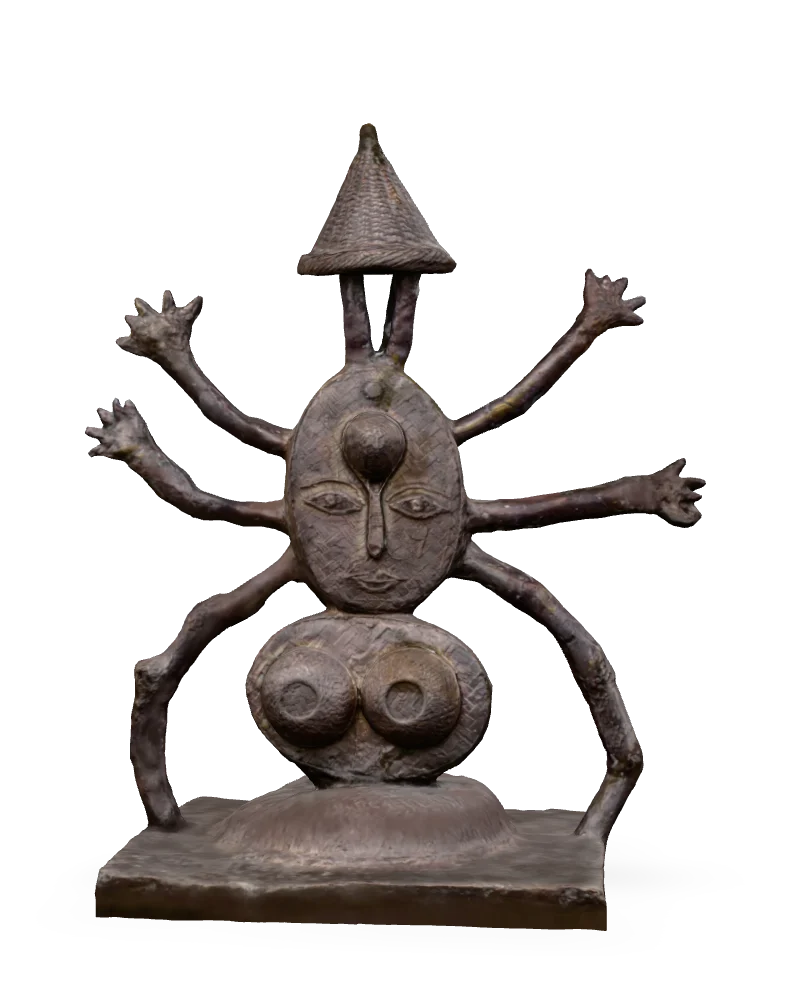
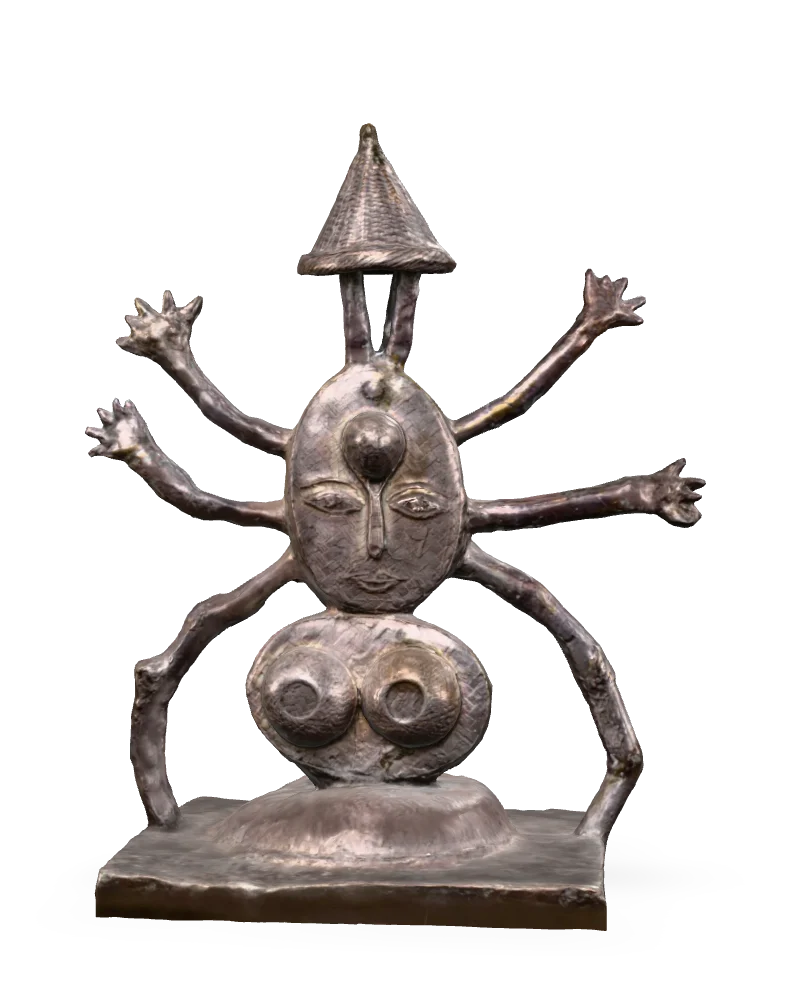
Looks from the look lab for 13 more works, with new thumbnails
Meri Patang, Head in Fragments, Levitation, Matar, The Tailor, Ganesha,
Patinder Rawat Trumpet Walae, Patinder Ji Haran Walla, Bronze 2 - 1,
Bandwalla, KC The Bandmaster, Shyam Pratap Bhompu Walae and Horse. Also
re-renders the Yellow, Dark Green and Blue Saree thumbnails with their
looks from earlier. Each ?v= bumped.

Changed region(s): [[0.125, 0.124, 0.875, 0.899], [0.625, 0.279, 0.8125, 0.403], [0.0938, 0.403, 0.25, 0.496]]

diff --git a/lib/sculptures.ts b/lib/sculptures.ts
@@ -287,9 +287,9 @@ export const sculptures: Sculpture[] = [
     longDescription:
       "A blue elephant rears up on one hind leg, its trunk raised high in a long curve and its pale tusks pointing upward. The body shades from light blue at the head and ears to a deep blue on the belly and legs, with small white toenails marked on the feet.\n\nOne front foot is lifted and balances a green ball, while the hind foot it stands on rests on another green ball, set on top of a long green pod that forms the base. More green spheres cluster on top of the elephant's head, between the ears. The tail is unusually long and thin: it sweeps out behind the body, curves upward and ends in a small diamond-shaped kite, orange with diagonal stripes, with a short tail of its own. The kite is the only warm colour in the work, set against the blues and greens of the rest.\n\nMade in 2026 in acrylic on nylon, the sculpture measures 12 × 9 × 5 inches, about 30 cm tall. Its title, Meri Patang, means \"My Kite\", naming the small orange shape at the end of the tail.",
     artistSlug: "yashika-sugandh",
-    thumbnail: "/thumbnails/sugandh-meri-patang.webp?v=6",
+    thumbnail: "/thumbnails/sugandh-meri-patang.webp?v=7",
     modelUrl: "/sculptures/ElephantKite_LOWPOLY.glb?v=2",
-    look: { metalness: 0.18, roughness: 1.8, reflections: 0.6 },
+    look: { metalness: 0.18, roughness: 1.25, reflections: 0.6 },
     facing: 270,
     material: "Acrylic on Nylon",
     year: "2026",
@@ -350,9 +350,9 @@ export const sculptures: Sculpture[] = [
     longDescription:
       "A man's face, lined and heavy-lidded, is partly covered by a large hand that rises from below. The hand's index finger presses up against the side of the face next to one eye, and the other fingers spread across the mouth and cheek. Below the wrist, the arm becomes a thick yellow trunk that stands on a flat, square yellow base.\n\nThe top of the head is formed as a separate, rounded piece, set at an angle above the face and turning grey-violet at its outer edge. An ear is visible on the viewer's left. Across the skin, hand and trunk are painted leaves in green and blue-grey on thin stems. Raised orange and tan leaf shapes are attached at several points: on the crown, the hand, the back of the wrist and around the foot of the trunk, where they curl outward on the base.\n\nThe work is made in fibreglass, resin, paper mache, and oil and acrylic paint, and measures 17 × 11 × 16 inches, about 43 cm high. The skin is a warm peach colour. It is listed in its source as Untitled.",
     artistSlug: "subba-ghosh",
-    thumbnail: "/thumbnails/ghosh-head-in-fragments.webp?v=4",
+    thumbnail: "/thumbnails/ghosh-head-in-fragments.webp?v=5",
     modelUrl: "/sculptures/head-e.glb",
-    look: { roughness: 2, reflections: 0.6 },
+    look: { metalness: 0.1, roughness: 1.6, reflections: 0.45, light: 1.7 },
     material: "Fibreglass, Resin, Paper Mache, Oil and Acrylic Paint",
     year: "",
     dimensions: "17 × 11 × 16 inches",
@@ -369,7 +369,7 @@ export const sculptures: Sculpture[] = [
     longDescription:
       "A woman's head and neck are set on a short white collar, the face turned slightly to one side. Her hair is dark brown, drawn smoothly back from the face, with a small ring-shaped ornament on each side near the top. A broad yellow band crosses the forehead, and at its centre sits a large round orange bindi.\n\nThe face is a warm golden bronze. The eyes are long and almond-shaped beneath heavy lids, and the nose is straight and narrow, joined to the brow in a single line. Below the full lips, a yellow triangle runs down to the chin, echoing the yellow of the forehead. The ears are long and flat, standing out from the sides of the head. A thick ring circles the neck.\n\nThe collar at the base is pale white with a faint pink tint and is dotted with small holes. This bronze, made in 2026, measures 24 × 16 × 24 inches, about 61 cm high, and its title places it in a Saree Lady series. The large vermilion bindi and almond eyes recur in Thota Vaikuntam's painted women.",
     artistSlug: "thota-vaikuntam",
-    thumbnail: "/thumbnails/thota-dark-green-saree-lady.webp?v=6",
+    thumbnail: "/thumbnails/thota-dark-green-saree-lady.webp?v=7",
     modelUrl: "/sculptures/head-g.glb?v=2",
     look: { metalness: 0.3, roughness: 1.75, reflections: 0.6, light: 1.05, sideLights: 0.3 },
     facing: 180,
@@ -387,7 +387,7 @@ export const sculptures: Sculpture[] = [
     longDescription:
       "A woman stands facing forward with her feet together on a low oval base. She wears a blue saree and a short-sleeved blue blouse. The end of the saree is drawn up over her left shoulder and falls diagonally across the body, and the lower part gathers in front into a long fold between the legs, ending just below the knees.\n\nHer right arm hangs at her side, holding a small rounded pouch or pot by its neck. Her left hand rests at the waist. Both forearms are covered in close rings of bangles, and thick anklets circle the ankles above the bare feet. A small red bindi sits at the centre of her forehead. The head is large and round, the hair drawn smoothly back, and a fine line runs from the nose over the lips to the chin.\n\nThe skin and base are a dark grey-brown metal, while the clothing is a strong blue-violet, so the shape of the garment reads clearly against the body. The bronze measures 23 × 9 × 7 inches, about 58 cm tall. Her saree and red bindi follow the women in bright saris with vermilion bindis that Thota Vaikuntam paints.",
     artistSlug: "thota-vaikuntam",
-    thumbnail: "/thumbnails/thota-blue-saree.webp?v=7",
+    thumbnail: "/thumbnails/thota-blue-saree.webp?v=8",
     modelUrl: "/sculptures/female-with-blue-saree.glb?v=4",
     look: { metalness: 0.5, roughness: 1.5, reflections: 1.8, light: 0.3, specular: 1 },
     material: "Bronze",
@@ -407,7 +407,7 @@ export const sculptures: Sculpture[] = [
     longDescription:
       "Tilted slightly upward and to one side, this woman's head rests on a yellow collar dotted with small holes. A plain ring encircles the neck just above the collar. The face is a smooth, warm golden bronze, rounded at the cheeks and chin.\n\nHer dark brown hair is drawn back tightly, with a small oval ornament on either side near the crown. Across the forehead runs a broad yellow band, and in its centre a large round orange bindi. The eyes are long and almond-shaped under heavy lids, the nose is straight and joined to the brow line, and the lips are full. A narrow yellow triangle extends from the lower lip to the chin, repeating the yellow of the forehead and collar. The ears are long and flat, set close to the sides of the head.\n\nThe surfaces are smooth, and the features are reduced to clear edges and flat planes. Made in 2026, the bronze measures 24 × 16 × 24 inches, about 61 cm high. The large vermilion bindi and almond eyes are features Thota Vaikuntam gives the women in his paintings.",
     artistSlug: "thota-vaikuntam",
-    thumbnail: "/thumbnails/thota-yellow-saree-lady.webp?v=6",
+    thumbnail: "/thumbnails/thota-yellow-saree-lady.webp?v=7",
     modelUrl: "/sculptures/female-head.glb?v=3",
     look: { metalness: 0.5, roughness: 1.2, reflections: 0.55, light: 0.8, sideLights: 0.4 },
     material: "Bronze",
@@ -424,9 +424,9 @@ export const sculptures: Sculpture[] = [
     longDescription:
       "A figure sits cross-legged, its arms falling straight from rounded shoulders so that the hands rest on the knees. The proportions are simplified: a thin neck rises to an oval head that is hollowed out like a shallow bowl, and in the middle of that hollow sits a single almond-shaped form with a dark centre. The outer surface is rough and uneven, a mottled bronze-gold colour throughout.\n\nThe front of the torso is opened up into a deep cavity that runs from the collarbone down into the lap. Its inner walls are lined in blue-green flecked with gold, a contrast with the warmer outer skin. Near the top of this opening, at the level of the chest, a smooth yellow-gold sphere is set into the hollow. The title, Levitation, means rising or floating in the air.\n\nThe work is made in papermache, marble and acrylic paint, and measures 24 × 22 × 14 inches. Seen from the front, the arms and the sides of the torso leave two open gaps through which the background shows. The edges of the opening in the torso are thin and slightly rolled, like the lip of a shell.",
     artistSlug: "meena-sansanwal",
-    thumbnail: "/thumbnails/sansanwal-levitation.webp?v=5",
+    thumbnail: "/thumbnails/sansanwal-levitation.webp?v=6",
     modelUrl: "/sculptures/meditating.glb?v=2",
-    look: { metalness: 0.5, roughness: 1.3 },
+    look: { metalness: 0.8, roughness: 1.6, reflections: 0.75, light: 1.9, sideLights: 0.8 },
     facing: 180,
     material: "Papermache, Marble And Acrylic Paint",
     year: "",
@@ -573,9 +573,9 @@ export const sculptures: Sculpture[] = [
     longDescription:
       "Matar is the Hindi word for peas, and the work is built around a single green pea pod standing upright on its tip. The pod is split open along its front, showing a column of round green peas inside, and at the top a curling stem and small leaves spread outwards.\n\nAmong the peas are small figures and objects. Near the top, a monkey-like figure in a yellow garment sits on a pea, holding strings from which a small gold winged object hangs out beside the pod. Lower down, one section is a band of blue with white rings, and below it is a red and white section with radiating lines. Further down, a small yellow creature appears among the lowest peas. The pod's tip rests on a large white egg-shaped form scattered with blue spots of different sizes, which in turn sits on a round brown base.\n\nThe work dates from 2024 and is made in acrylic on fibre resin and nylon, measuring 11 × 2 × 2 inches. The peas are a lighter, yellowish green than the pod, and the two halves of the pod narrow to a point at the bottom.",
     artistSlug: "yashika-sugandh",
-    thumbnail: "/thumbnails/sugandh-matar.webp?v=5",
+    thumbnail: "/thumbnails/sugandh-matar.webp?v=6",
     modelUrl: "/sculptures/sugandh-matar.glb",
-    look: { roughness: 2.62, reflections: 0.7 },
+    look: { roughness: 1.8, reflections: 0.55 },
     facing: 110,
     material: "Acrylic on Fiber Resin and Nylon",
     year: "2024",
@@ -592,9 +592,9 @@ export const sculptures: Sculpture[] = [
     longDescription:
       "Listed in its source as Untitled, this bronze by Yusuf shows a bald head on a long, column-like neck and body that rises from a rectangular base. The face looks straight ahead, with large ears, a straight nose, and eyes and lips picked out in orange. The surface is white, and over it runs a dense covering of grey and black markings: lines, patches and shapes that spread across the face, the scalp and down the length of the body.\n\nTwo long, thin orange rods cross behind the figure and spread outwards in a wide V, reaching well beyond its sides. Smaller white forms are attached at either side of the body: on the left a rounded shape with a short projecting piece, and on the right a curved, ring-like form. The figure stands on a brown box-shaped base with a white top surface and an arched opening cut into the front.\n\nThe bronze measures 18 × 28 × 18 inches, and its width comes largely from the spread of the two orange rods. The white top of the base is slightly uneven and stops short of its edges, leaving a brown rim on all visible sides.",
     artistSlug: "yusuf",
-    thumbnail: "/thumbnails/yusuf-the-tailor.webp?v=7",
+    thumbnail: "/thumbnails/yusuf-the-tailor.webp?v=8",
     modelUrl: "/sculptures/yusuf-untitled-sewing-machine.glb",
-    look: { metalness: 2.86, roughness: 1.19, reflections: 0.6, cardZoom: 1.1, cardShift: 0.075, cardLift: 0.04 },
+    look: { metalness: 2.86, roughness: 0.75, reflections: 0.6, cardZoom: 1.1, cardShift: 0.08, cardLift: 0.04 },
     facing: 150,
     material: "Bronze",
     year: "",
@@ -646,9 +646,9 @@ export const sculptures: Sculpture[] = [
     longDescription:
       "At 183 cm high, this is a large, angular figure of Ganesha, the elephant-headed deity of the title, built from flat planes and bold curves. A long trunk rises from the centre of the body and curves up and over to the left, its tip turned outwards. Beside it stands a tall cylindrical form with a stepped top, and two flat ears project to either side like broad fans.\n\nBelow the head, the body narrows and widens again in sharp folds, ending in a broad base with legs folded at the front. Almost every surface is painted. Deep reds and crimsons dominate, crossed by orange and black lines, with olive-yellow along the edges of the trunk and the head. The ears and parts of the base carry rows of small dark marks resembling writing. A long curved band of thin orange lines hangs across the chest, and there are small touches of blue near the base.\n\nThe work is in acrylic on fiberglass and measures 72 × 38 × 38 inches. The stepped top of the cylinder is olive-yellow, and the inner curve of the trunk is the same colour, running down into the chest.",
     artistSlug: "sujata-bajaj",
-    thumbnail: "/thumbnails/bajaj-ganesha.webp?v=4",
+    thumbnail: "/thumbnails/bajaj-ganesha.webp?v=5",
     modelUrl: "/sculptures/bajaj-ganesha.glb",
-    look: { metalness: 0.2, roughness: 1.6, reflections: 0.6 },
+    look: { metalness: 0.65, roughness: 1.05, reflections: 1.35, light: 2.25, sideLights: 0.8 },
     material: "Acrylic on fiberglass",
     year: "",
     dimensions: "72 × 38 × 38 inches",
@@ -664,9 +664,9 @@ export const sculptures: Sculpture[] = [
     longDescription:
       "Balanced on one leg on an oval base, a bandsman crosses his other leg behind him, the knee bent and the toe of the boot touching down at the back. Both arms wrap around a large coiled brass instrument held against his chest. Its wide bell rises above his right shoulder, and a thin pipe runs up from the coils to his mouth.\n\nThe instrument is the brightest part of the work, a gold-brown that stands out against the greyish brown of the clothing. He wears a cap, a short jacket with a belt and buttons, close-fitting trousers and tall boots that reach almost to the knee. The surface of the clothing is rough and heavily worked, with pressed folds and uneven patches, while the coils of the instrument are smoother.\n\nThe title names Patinder Rawat, and \"Trumpet Walae\" reads as \"the one with the trumpet\". The bronze measures 12 × 5 × 5 inches and is cast 3 of an edition of 9. Khanna's figurative work includes the Bandwallahs series. The valves of the instrument show between his hands, and the lowest coil rests against his belt.",
     artistSlug: "krishen-khanna",
-    thumbnail: "/thumbnails/khanna-patinder-rawat-trumpet-walae.webp?v=5",
+    thumbnail: "/thumbnails/khanna-patinder-rawat-trumpet-walae.webp?v=6",
     modelUrl: "/sculptures/khanna-untitled-bandsman.glb",
-    look: { metalness: 0.97, roughness: 1.57, reflections: 0.9, light: 1.25, specular: 1 },
+    look: { roughness: 0.7, reflections: 0.9, light: 0.85, sideLights: 0.15, specular: 1 },
     facing: 310,
     material: "Bronze",
     year: "",
@@ -684,9 +684,9 @@ export const sculptures: Sculpture[] = [
     longDescription:
       "A standing figure in uniform tips his head back and raises a long, straight horn high above him, both hands gripping it near the mouthpiece. The horn is a bright gold, widening into a broad bell whose inner surface is dimpled. His face and hands are a dark grey-brown, set against the coppery orange of his clothing.\n\nHe wears a long coat with a high collar and a line of buttons down the front, its skirt flaring out over the legs. A pale khaki belt with a square buckle crosses the waist, and a strap of the same colour runs diagonally from one shoulder to the opposite hip. One leg is bent at the knee and lifted from the ground, so the whole figure balances on a single shod foot set on a small, pale, irregular base.\n\nThe bronze is dated 2025 and measures 56 × 32 × 18 inches, about 1.4 metres tall, and belongs to an edition of 9 plus an artist's proof. In the title, \"Walla\" means roughly \"the one with\". Uniformed bandsmen are the subject of Krishen Khanna's Bandwallahs series.",
     artistSlug: "krishen-khanna",
-    thumbnail: "/thumbnails/khanna-patinder-ji-haran-walla.webp?v=4",
+    thumbnail: "/thumbnails/khanna-patinder-ji-haran-walla.webp?v=5",
     modelUrl: "/sculptures/khanna-untitled-trumpeter.glb",
-    look: { metalness: 0.29, roughness: 2.12, reflections: 0.9, light: 1.25, specular: 1 },
+    look: { metalness: 0.4, roughness: 0.65, reflections: 0.7, light: 1.15, sideLights: 0.15, specular: 1 },
     facing: 270,
     material: "Bronze",
     year: "2025",
@@ -761,9 +761,9 @@ export const sculptures: Sculpture[] = [
     longDescription:
       "A flat, oval face forms the centre of this dark brown bronze. It has two almond-shaped eyes, a long narrow nose and a small curved mouth, with a round boss above the nose and a smaller knob at the top of the oval. Below the face is a wide rounded form carrying two large circular shapes, and the surfaces of both are covered with a fine criss-cross texture like weaving.\n\nSix thin, branch-like limbs spread out from the body. Four of them, two reaching upwards and two held out to the sides, end in hands with spread fingers. The lower two curve outwards and down, their ends resting on the corners of a flat rectangular base with a low mound at the centre. Above the face, two upright stems hold a pointed conical cap, with a small knob at its tip.\n\nBronze 2 - 1 is dated 2006 and measures 31 × 26 × 16 inches, about 79 centimetres tall; this is cast 2 of an edition of 7, by Madhvi Parekh. The limbs are knobbly and uneven, thicker at the joints, in contrast with the flat, textured face and body.",
     artistSlug: "madhvi-parekh",
-    thumbnail: "/thumbnails/parekh-bronze-2-1.webp?v=4",
+    thumbnail: "/thumbnails/parekh-bronze-2-1.webp?v=5",
     modelUrl: "/sculptures/parekh-bronze-2-1.glb",
-    look: { metalness: 0.3, roughness: 1.45, reflections: 0.6 },
+    look: { metalness: 0.95, roughness: 1.25, reflections: 0.8, light: 1.25, sideLights: 1 },
     facing: 180,
     material: "Bronze",
     year: "2006",
@@ -780,9 +780,9 @@ export const sculptures: Sculpture[] = [
     longDescription:
       "Dressed almost entirely in deep red, a bandsman stands with his feet apart and lifts a small horn to his lips. The instrument has a narrow curved tube and a flared bell in plain bronze, which he steadies with both hands just below his face. His face and hands are left in the dark brown of the bronze.\n\nHis uniform is a red peaked cap, a red jacket with a high collar and buttons down the front, red trousers and tall red boots that reach almost to the knee. A brown belt crosses his waist, and a brown strap runs diagonally across his chest from one shoulder.\n\nBandwalla is a bronze from an edition of 9. Its title joins \"band\" with \"walla\", roughly \"the one with\", so the name reads as \"the band man\", the subject of Krishen Khanna's Bandwallahs series. The face is broad, with heavy eyelids and a wide nose, framed by large ears below the cap. His elbows are held out from the body, one arm crossing in front of the chest, and the bell of the horn turns outwards to one side.",
     artistSlug: "krishen-khanna",
-    thumbnail: "/thumbnails/khanna-bandwalla.webp?v=4",
+    thumbnail: "/thumbnails/khanna-bandwalla.webp?v=5",
     modelUrl: "/sculptures/untitled-bandsman-in-red.glb",
-    look: { metalness: 0.19, roughness: 1.86, reflections: 0.9, light: 1.44, specular: 1, cardLight: 0.87, selfShadow: false },
+    look: { metalness: 0.19, roughness: 0.65, reflections: 1.1, light: 1.95, sideLights: 0.55, specular: 1, cardLight: 0.87, selfShadow: false },
     facing: 200,
     material: "Bronze",
     year: "",
@@ -895,9 +895,9 @@ export const sculptures: Sculpture[] = [
     longDescription:
       "Leaning back on bent knees, the bandmaster throws his arms wide. One hand holds a short stick raised out to the side, like a baton, while the other is open with the fingers spread. His head tips back under a small orange-red cap, and his face, in dark bronze, is turned upwards.\n\nHe wears an orange-red uniform jacket with shoulder pieces, a breast pocket and a row of buttons; it hangs open over a round stomach, with the shirt parting at the belly above a belt and buckle. His trousers are dark blue and loosely creased, and his brown shoes are planted wide apart. The surface throughout is uneven, worked with small dents and folds rather than smoothed, so the colour gathers darker in the creases of the jacket and trousers.\n\nKC The Bandmaster is a bronze measuring 13 × 12 × 8 inches, cast 3 of an edition of 9. \"Bandmaster\" in the title names the leader of a band, and uniformed bandsmen are the subject of Krishen Khanna's Bandwallahs series. His arms, held out at different heights, make a wide diagonal across the work.",
     artistSlug: "krishen-khanna",
-    thumbnail: "/thumbnails/khanna-kc-the-bandmaster.webp",
+    thumbnail: "/thumbnails/khanna-kc-the-bandmaster.webp?v=2",
     modelUrl: "/sculptures/khanna-kc-the-bandmaster.glb",
-    look: { metalness: 0.17, roughness: 1.32, reflections: 0.6 },
+    look: { metalness: 0.45, roughness: 0.75, reflections: 0.6, light: 2.3, sideLights: 0.15 },
     facing: 180,
     material: "Bronze",
     year: "",
@@ -914,9 +914,9 @@ export const sculptures: Sculpture[] = [
     longDescription:
       "Seated on a brown box with his knees apart, a barefoot bandsman plays a large horn. The bell of the instrument rises high to one side, wide and flared, and he holds it up with one hand. Its tubing coils in front of his chest, with the mouthpiece at his lips, and his other hand rests over the coil.\n\nHe wears a dark peaked cap with a red band, an orange-red jacket with shoulder pieces and a collar open at the neck, and a belt with a large buckle. His trousers are a deep purple-blue, ending above bare feet that rest flat on the ground. The horn is left in the plain golden brown of the bronze, as are his face, hands and feet.\n\nShyam Pratap Bhompu Walae is a bronze measuring 12 × 8 × 8 inches, cast 3 of an edition of 9. In the title, \"Walae\" means roughly \"the one with\"; uniformed bandsmen are the subject of Krishen Khanna's Bandwallahs series. The horn is the largest element, its bell reaching above the player's head, and the purple-blue legs spread wide below it.",
     artistSlug: "krishen-khanna",
-    thumbnail: "/thumbnails/khanna-shyam-pratap-bhompu-walae.webp",
+    thumbnail: "/thumbnails/khanna-shyam-pratap-bhompu-walae.webp?v=2",
     modelUrl: "/sculptures/khanna-shyam-pratap-bhompu-walae.glb",
-    look: { metalness: 0.19, roughness: 2.38, reflections: 0.6 },
+    look: { metalness: 0.35, roughness: 0.75, reflections: 0.8, light: 1.2, sideLights: 0.2 },
     facing: 260,
     material: "Bronze",
     year: "",
@@ -1029,9 +1029,9 @@ export const sculptures: Sculpture[] = [
     longDescription:
       "A horse strides forward on four bent legs, each hoof set on a small spoked wheel, so the whole animal stands like a toy that could be pulled along. Its head is long and lowered, the mouth open to show its teeth, with a strap running from the muzzle up behind the ear like a bridle.\n\nAlong the neck, the mane rises in a row of tall, pointed spikes. Towards the front, several of them end in small round knobs, like pins. The tail curls up and forward over the back and ends in a round, ball-shaped form, and from its base two fan-like sprays of thin rods spread out to either side.\n\nAcross the body hangs a saddle-cloth framed by a border of small signs. In its centre a smaller animal runs to the left in low relief, in the same direction as the horse. The whole work is cast in bronze with a warm, even golden-brown surface. It is number 3 from an edition of 9.",
     artistSlug: "madhvi-parekh",
-    thumbnail: "/thumbnails/parekh-horse.webp",
+    thumbnail: "/thumbnails/parekh-horse.webp?v=2",
     modelUrl: "/sculptures/parekh-horse.glb",
-    look: { metalness: 0.33, roughness: 1.47, reflections: 0.6 },
+    look: { metalness: 0.95, roughness: 1.35, reflections: 0.75, light: 1.6, sideLights: 0.9 },
     material: "Bronze",
     year: "",
     edition: "3 of 9",
